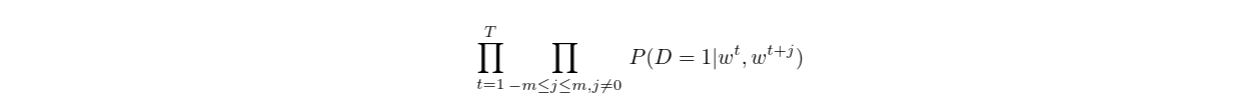
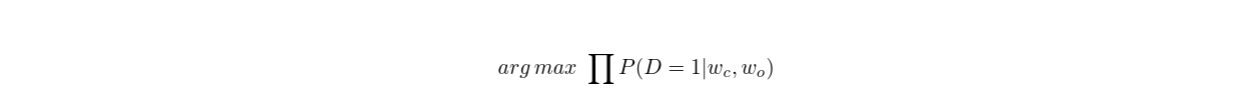
update

Changed region(s): [[0.3747, 0.3853, 0.6557, 0.8532], [0.3747, 0.2202, 0.4059, 0.2752], [0.3747, 0.3028, 0.4059, 0.3303]]

diff --git a/pre/embedded.md b/pre/embedded.md
@@ -103,4 +103,11 @@ NS其实是符合直觉的，一开始是遍历整个词表，那么有没有可
 
 ![](https://github.com/sherlcok314159/ML/blob/main/pre/Images/ns.png)
 
+那么，目标函数即为使得这些可能作为邻居的词的概率尽可能变大：
+
 ![](https://github.com/sherlcok314159/ML/blob/main/pre/Images/ns_prod.png)
+
+我们取对数处理
+
+![](https://github.com/sherlcok314159/ML/blob/main/pre/Images/ns_prod_log.png)
+
